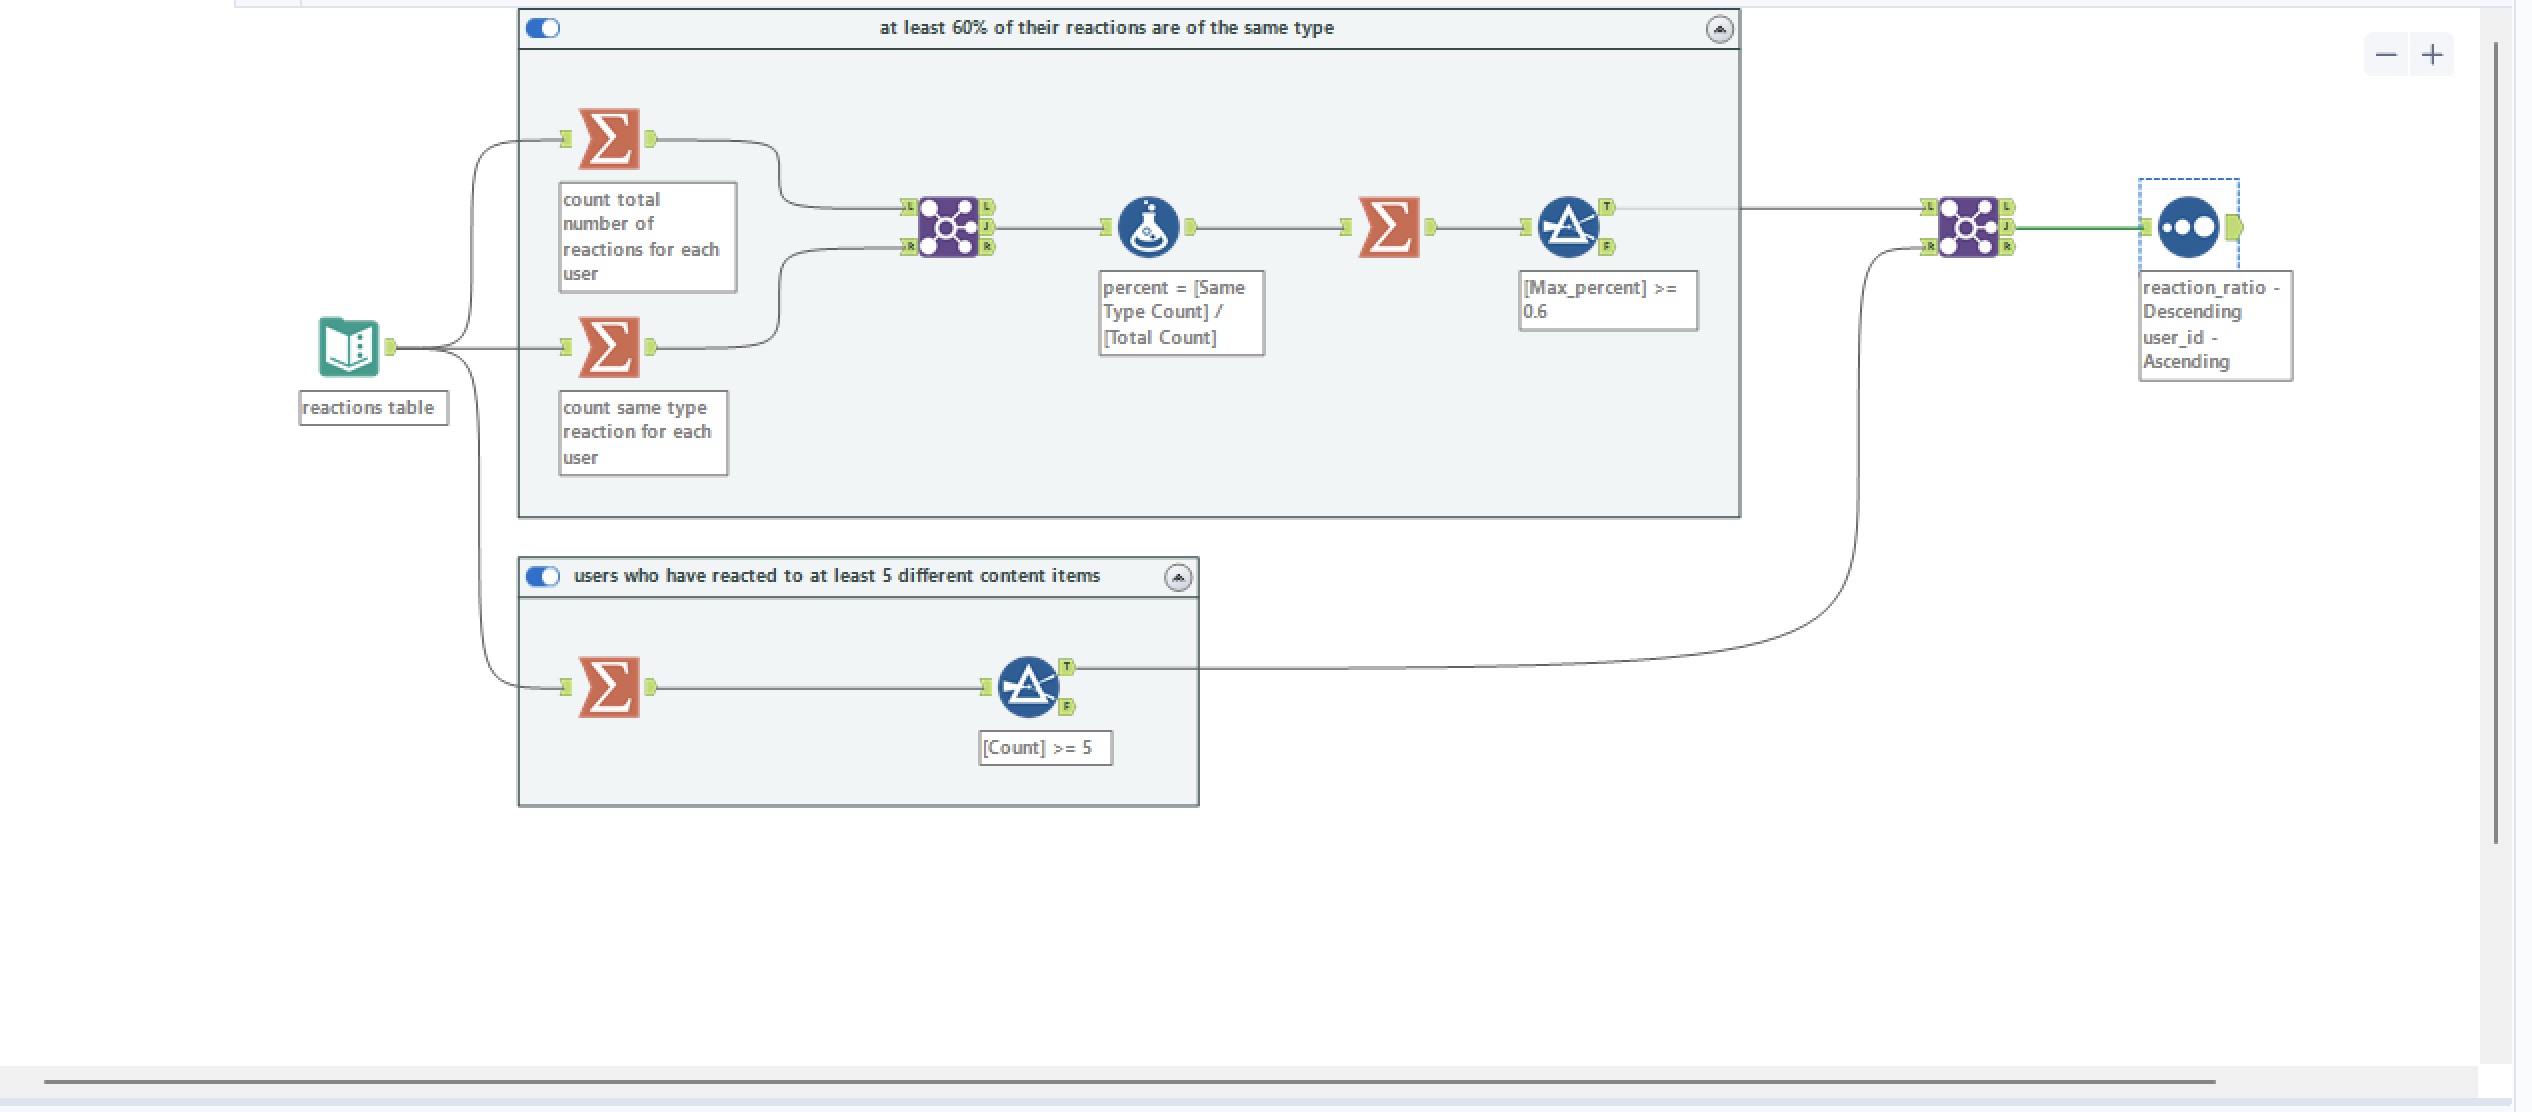
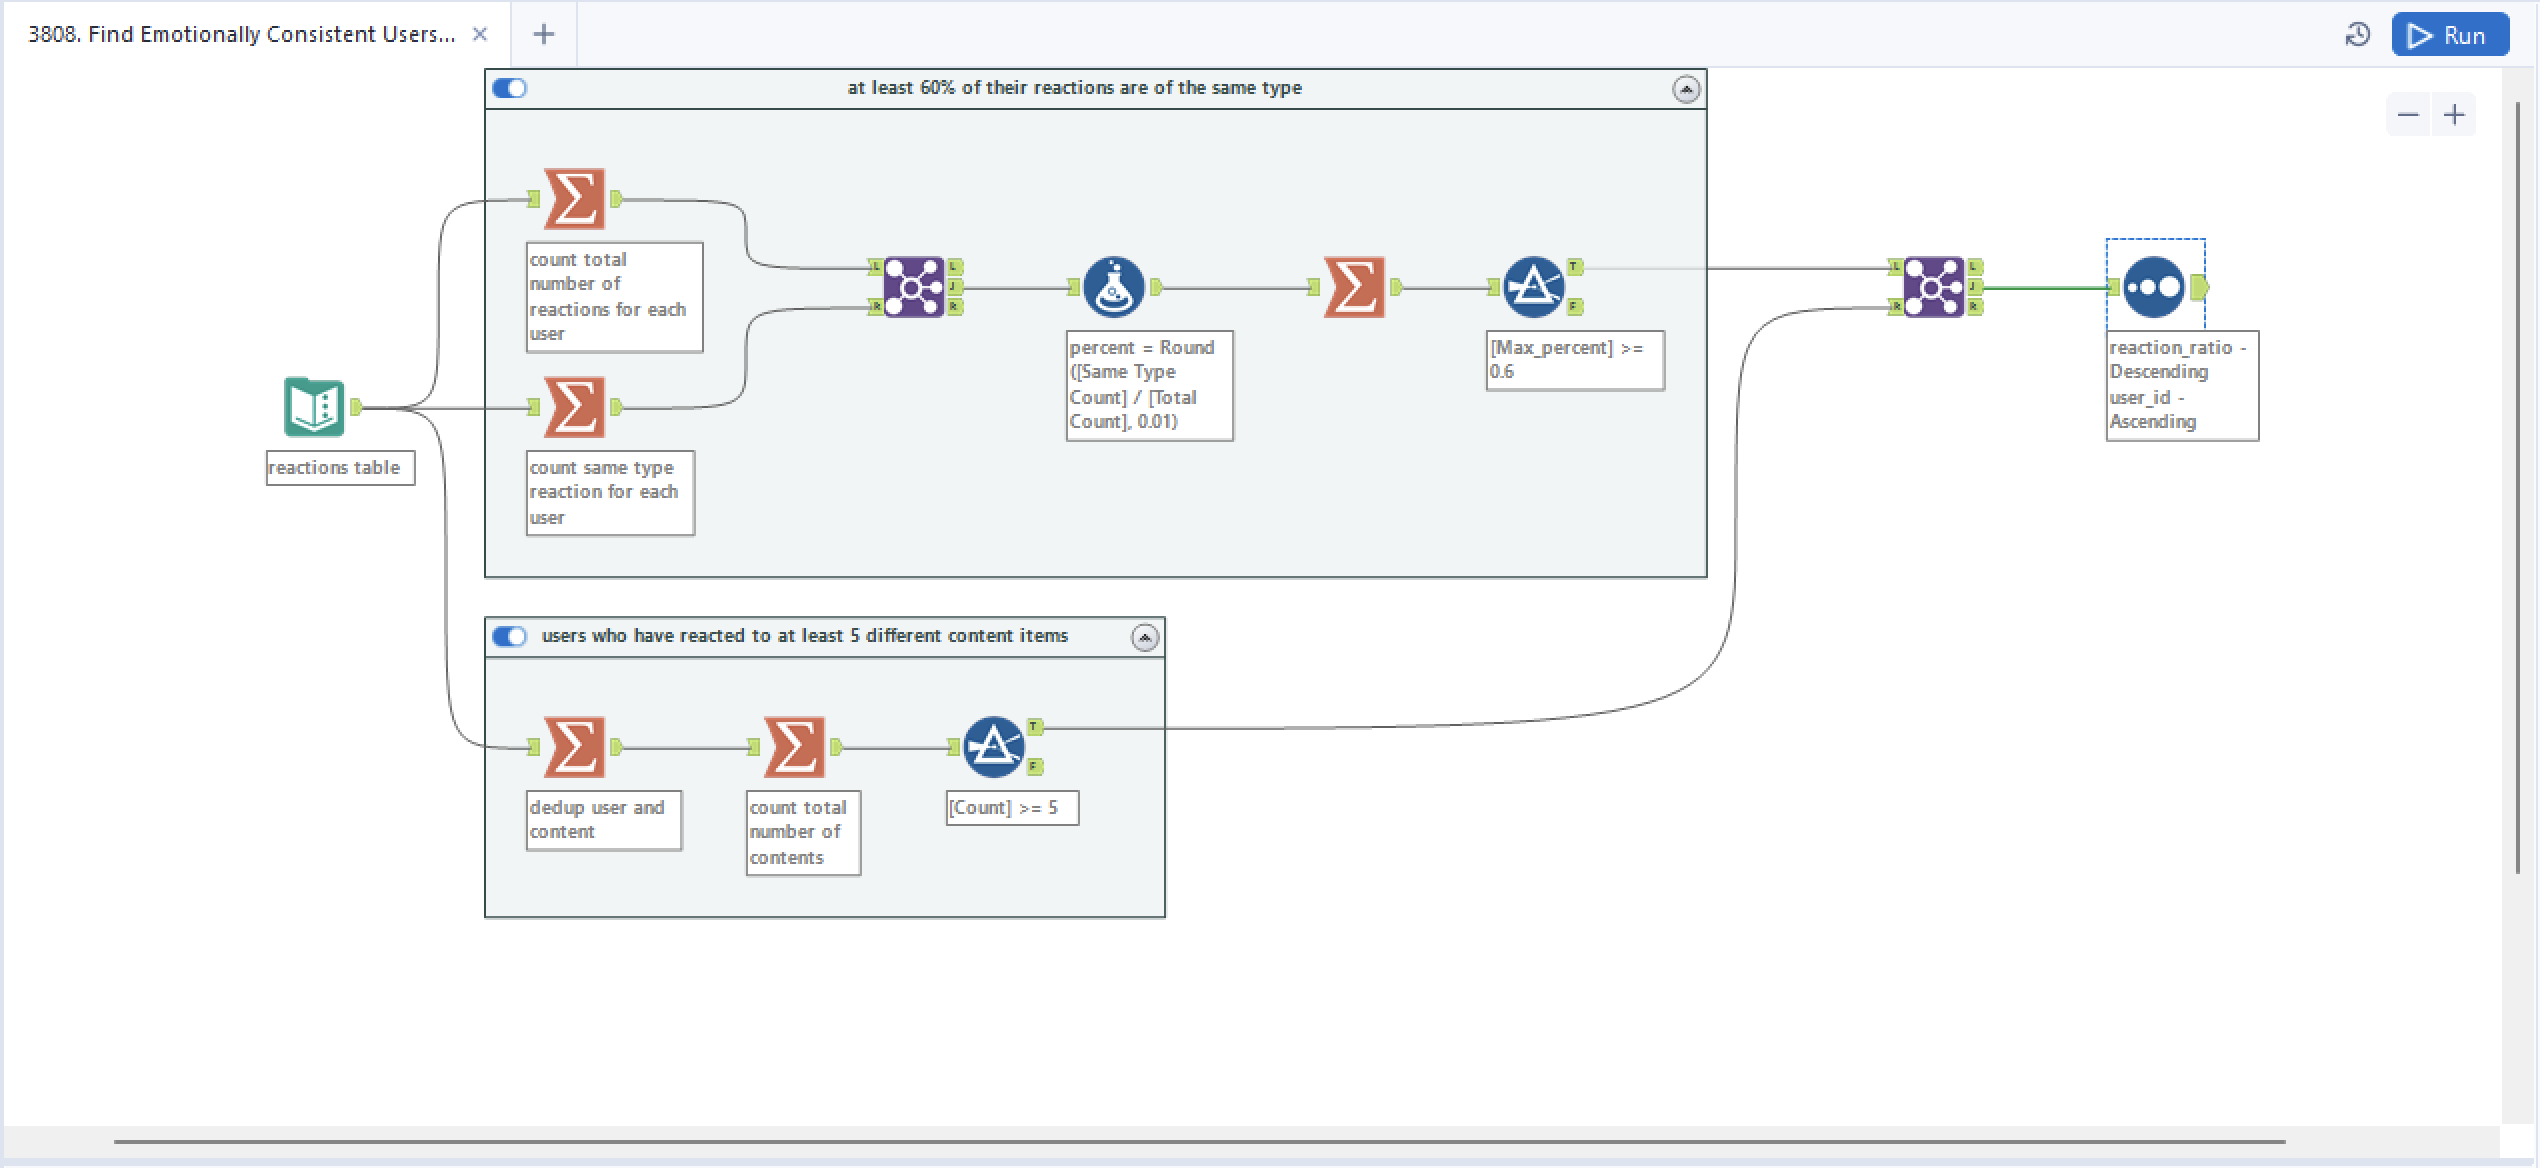
add files

diff --git a/3808. Find Emotionally Consistent Users.md b/3808. Find Emotionally Consistent Users.md
@@ -77,4 +77,33 @@ reaction_ratio = 5 / 5 = 1.00
 Meets the consistency requirement
 The Results table is ordered by reaction_ratio in descending order, then by user_id in ascending order
 ```
+
+```py
+import pandas as pd
+
+
+def find_emotionally_consistent_users(reactions: pd.DataFrame) -> pd.DataFrame:
+    # at least 60% of their reactions are of the same type 
+    total_reaction_counts = reactions.groupby('user_id').agg(total_count=('content_id', 'count')).reset_index()
+    same_reaction_counts = reactions.groupby(['user_id', 'reaction']).agg(same_count=('content_id', 'count')).reset_index() 
+    inner_join_counts = total_reaction_counts.merge(same_reaction_counts, on='user_id', how='inner')
+    inner_join_counts['percent'] = (inner_join_counts['same_count'] / inner_join_counts['total_count'] * 100 + 0.5).astype(int) / 100.0
+    inner_join_counts = inner_join_counts.sort_values(['user_id', 'percent'], ascending=[True, False])
+    most_frequent = inner_join_counts.groupby('user_id').agg(max_percent=('percent', 'max'), first_reaction=('reaction', 'first')).reset_index()
+    filter_most_frequent = most_frequent.loc[most_frequent['max_percent'] >= 0.6] 
+    # users who have reacted to at least 5 different content items 
+    dedup_user_content = reactions.groupby(['user_id', 'content_id']).agg(count=('reaction', 'count')).reset_index() 
+    total_content_counts = dedup_user_content.groupby('user_id').agg(count=('content_id', 'count')).reset_index() 
+    filter_content_counts = total_content_counts.loc[total_content_counts['count'] >= 5] 
+    # output
+    output = filter_most_frequent.merge(filter_content_counts, on='user_id', how='inner')
+    output = output[['user_id', 'first_reaction', 'max_percent']] 
+    output = output.rename(columns={'first_reaction': 'dominant_reaction', 'max_percent': 'reaction_ratio'}) 
+    output = output.sort_values(['reaction_ratio', 'user_id'], ascending=[False, True])  
+    return output 
+```
+
 ![alt text](AlteryxScreenshot/3808.png)
+
+
+
